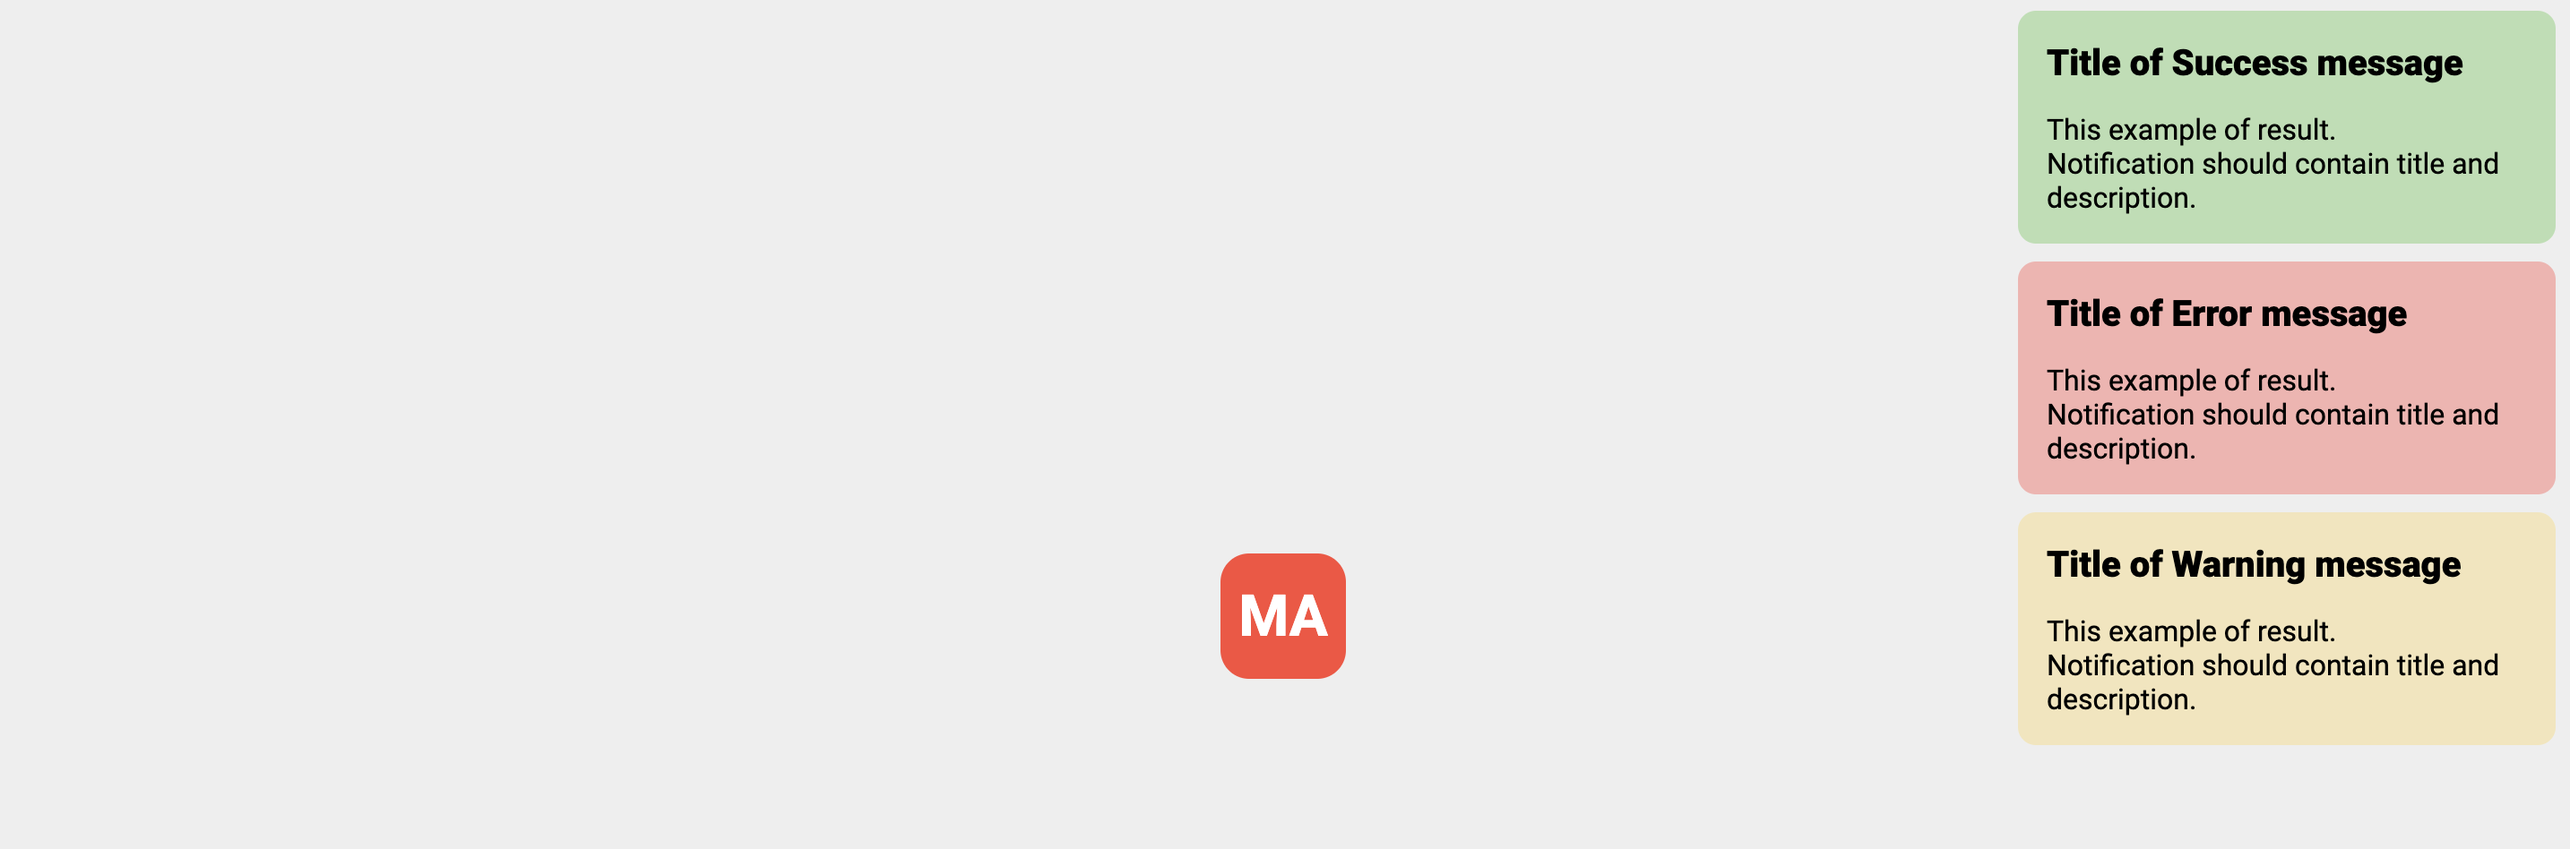
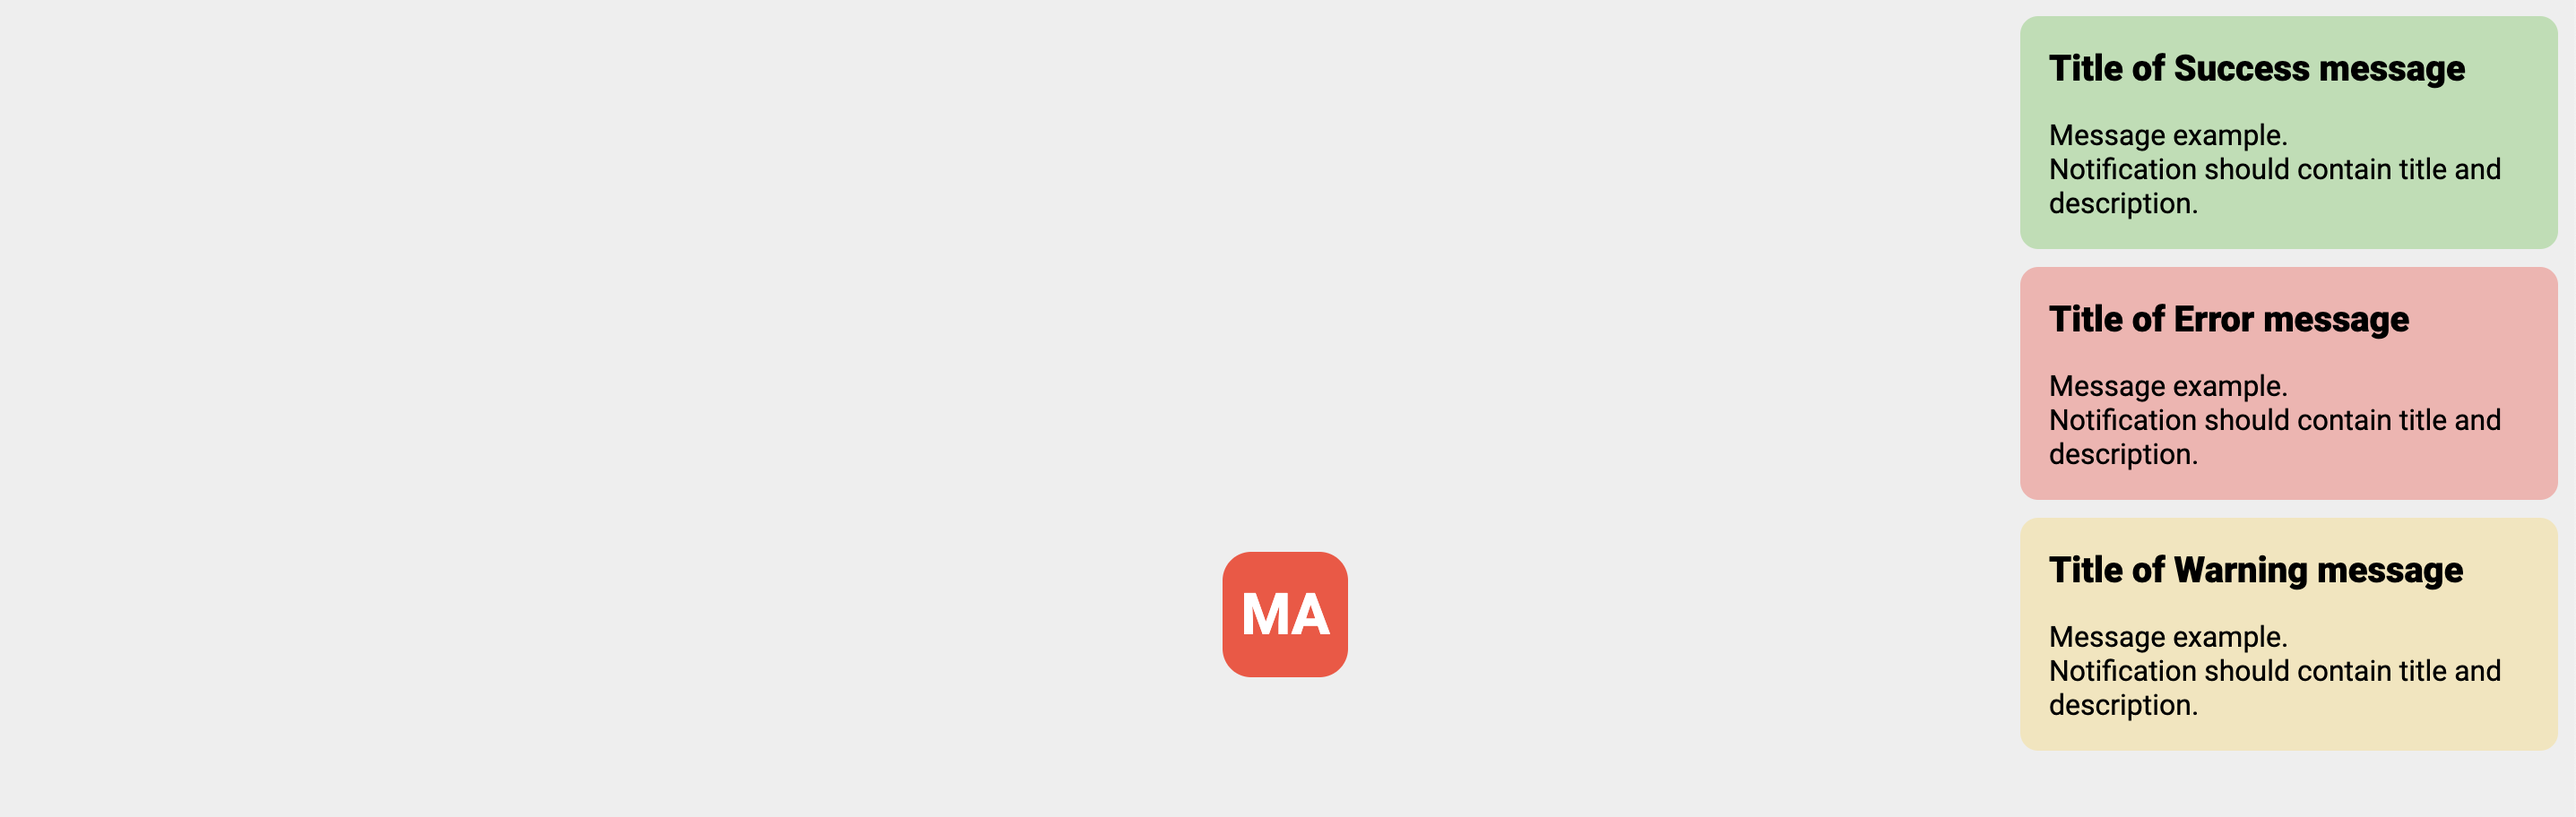
readme and picture edited, main.js uncommented

Changed region(s): [[0.7758, 0.0307, 1.0, 0.9211], [0.4655, 0.6447, 0.5275, 0.8289], [0.7758, 0.0, 0.993, 0.0307]]

diff --git a/src/scripts/main.js b/src/scripts/main.js
@@ -1,17 +1,17 @@
 'use strict';
 
-// const pushNotification = (top, right, title, description, type) => {
-//   // write code here
-// };
+const pushNotification = (topPst, rightPst, title, description, type) => {
+  // write code here
+};
 
-// pushNotification(10, 10, 'Title of Success message',
-//   'This example of result.\n '
-//   + 'Notification should contain title and description.', 'success');
+pushNotification(10, 10, 'Title of Success message',
+  'Message example.\n '
+  + 'Notification should contain title and description.', 'success');
 
-// pushNotification(150, 10, 'Title of Error message',
-//   'This example of result.\n '
-//   + 'Notification should contain title and description.', 'error');
+pushNotification(150, 10, 'Title of Error message',
+  'Message example.\n '
+  + 'Notification should contain title and description.', 'error');
 
-// pushNotification(290, 10, 'Title of Warning message',
-//   'This example of result.\n '
-//   + 'Notification should contain title and description.', 'warning');
+pushNotification(290, 10, 'Title of Warning message',
+  'Message example.\n '
+  + 'Notification should contain title and description.', 'warning');

diff --git a/README.md b/README.md
@@ -14,15 +14,10 @@ Your task: Create function `pushNotification`, which takes coordinates of the me
 Do not write any CSS styles or HTML code in this task. You should modify only `main.js` file.
 
 Implementation tips:
-- Print three messages: `success`, `error`, `warning` (see image below);
+- Print three messages: `success`, `error`, `warning` (call methods already exist in `main.js` file);
 - The message is block element with class `notification` + class which depends on the input parameter type (`success`, `error`, `warning`); 
 - The message should have a title with class `title` (prefer `h2` element);
-- The message should have description (prefer tag `p`);
-- Set coordinates of the message (`top` and `right`) rely on values from parameters. Use this coordinates for your
-messages: 
-        - `success`: 10, 10; 
-        - `error`: 150, 10; 
-        - `warning`: 290, 10. 
+- The message should have description (prefer tag `p`).
 
 Hint: use [setTimeout](https://developer.mozilla.org/en-US/docs/Web/API/WindowOrWorkerGlobalScope/setTimeout) for execute a function or specified piece of code once the timer expires.
 
